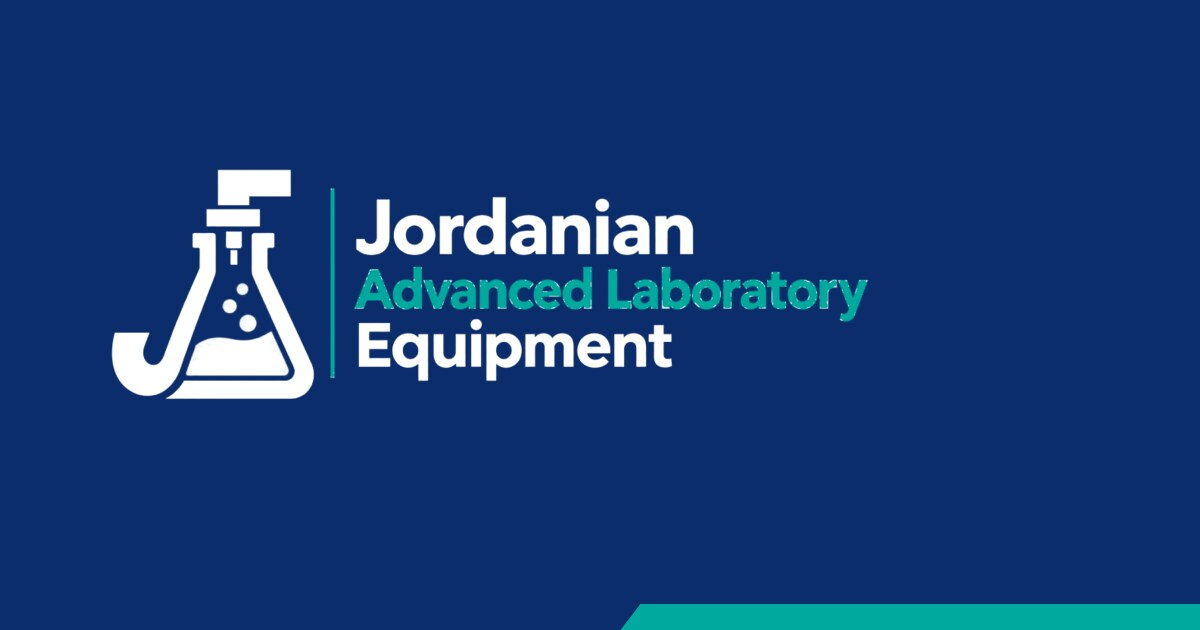
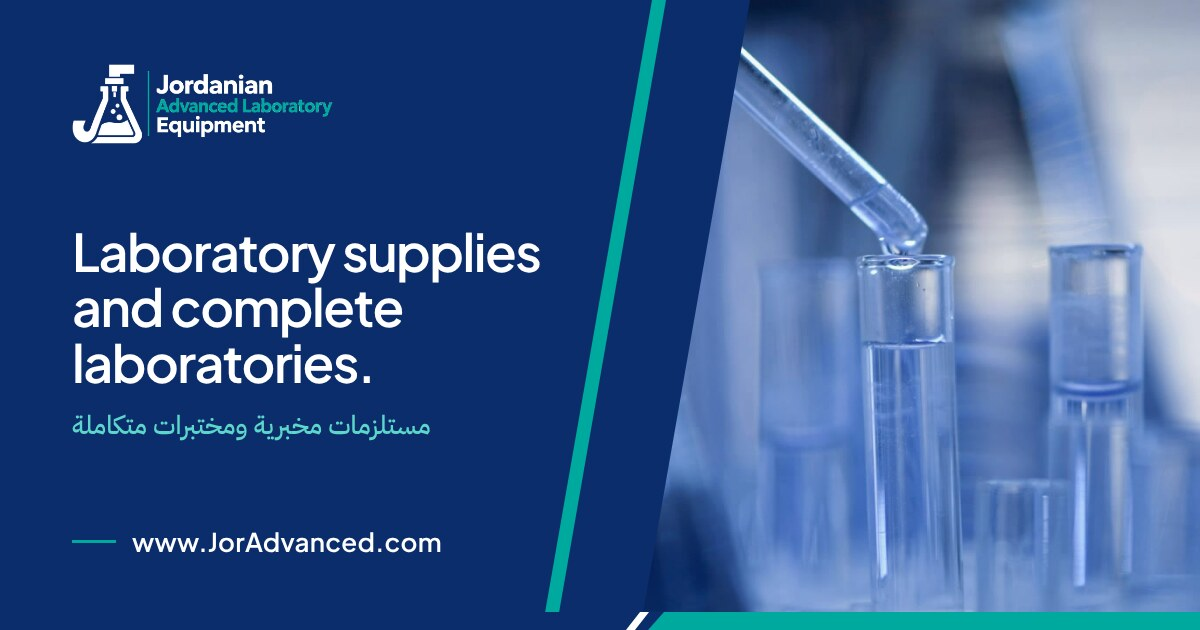
Link preview cards: designed EN and AR images (option 2)
Claude-Session: https://claude.ai/code/session_01WwPxUbKq8NJ5HYpNoBehux

diff --git a/src/lib/seo.ts b/src/lib/seo.ts
@@ -19,7 +19,8 @@ export function buildMetadata({ locale, path, title, description, image, absolut
   const fullTitle = absoluteTitle ? `${brand} | ${title[locale]}` : `${title[locale]} | ${site.brand.shortName}`;
   const url = `${site.url}${lp(locale, path)}`;
   const languages = Object.fromEntries(locales.map((l) => [localeMeta[l].htmlLang, `${site.url}${lp(l, path)}`]));
-  const ogImage = image ?? "/brand/og.jpg";
+  // Link previews (WhatsApp, social): a designed card per language.
+  const ogImage = image ?? `/brand/og-${locale}.jpg`;
   return {
     title: { absolute: fullTitle },
     description: description[locale],
@@ -61,7 +62,7 @@ export function organizationJsonLd(locale: Locale) {
         url: site.url,
         logo: `${site.url}${site.brand.logo.full.src}`,
         description: site.brand.descriptor[locale],
-        image: `${site.url}/brand/og.jpg`,
+        image: `${site.url}/brand/og-en.jpg`,
         areaServed: { "@type": "Country", name: "Jordan" },
         knowsAbout: solutions.map((s) => s.title.en),
         hasMap: site.contact.mapUrl ?? undefined,
